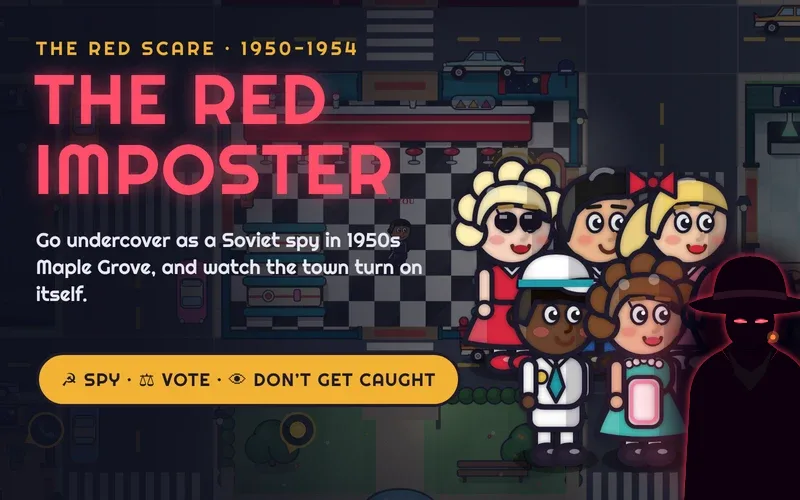
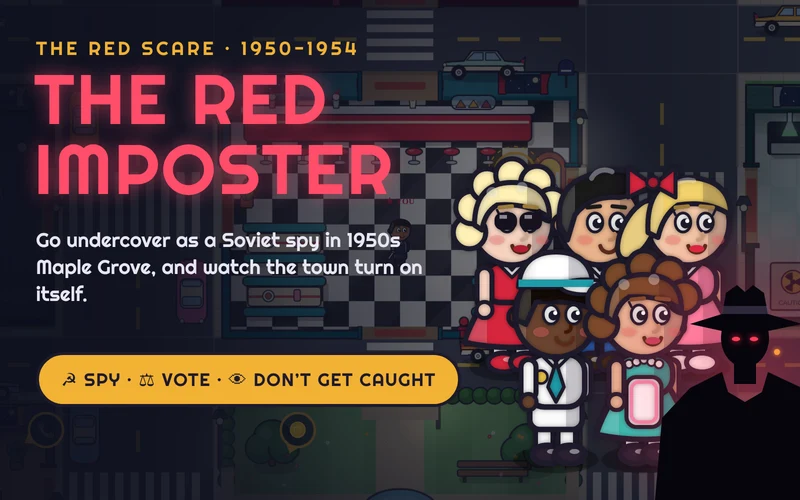
Red Imposter thumbnail: proportional fedora with angular pinched crown; refresh Cold War decks
Claude-Session: https://claude.ai/code/session_01Y5Ynk7yVBmukDNfpyqCbc5

Changed region(s): [[0.8125, 0.48, 1.0, 1.0]]

diff --git a/shop/index.html b/shop/index.html
@@ -68,7 +68,7 @@
 </article><article class="sunit" style="--c:#a8323e">
   <div class="thumb" style="background-image:url(/assets/thumbs/the-red-imposter.webp)"></div>
   <div class="body"><div class="unit">The Cold War</div><h3>The Cold War &amp; the Red Scare</h3><p>Containment, the arms race and McCarthyism: the key terms, people and places of the Cold War, with practice that ends in primary source analysis and Claim, Evidence, Reasoning writing.</p>
-  <div class="buys"><a class="buy" href="https://docs.google.com/presentation/d/1PVnd2bx5GIWatJR3ap7PeoeP_xFfSyAh01y8_gPcwAA/copy" rel="noopener"><span class="bl"><b>Lesson Deck · <s>$6.70</s> <span class="free">FREE</span></b><span class="tm">About 6–10 class periods</span></span><small>Get your free copy ▸</small></a><a class="buy" href="https://docs.google.com/presentation/d/1MWFVWP2ZlZkcclX3rWjnx_2pKsfFspTqf5vAoFPY8_A/copy" rel="noopener"><span class="bl"><b>Practice Deck · <s>$5.35</s> <span class="free">FREE</span></b><span class="tm">About 4–6 class periods</span></span><small>Get your free copy ▸</small></a></div>
+  <div class="buys"><a class="buy" href="https://docs.google.com/presentation/d/1L6ZdpDxtLTIwZ7SVdYkKK5TIIxnJ984BEgooWDRkdNs/copy" rel="noopener"><span class="bl"><b>Lesson Deck · <s>$6.70</s> <span class="free">FREE</span></b><span class="tm">About 6–10 class periods</span></span><small>Get your free copy ▸</small></a><a class="buy" href="https://docs.google.com/presentation/d/1jXEjcK9DIlzI1bKXRYvpLeMQg4owhMFi3MRVzWSIu5A/copy" rel="noopener"><span class="bl"><b>Practice Deck · <s>$5.35</s> <span class="free">FREE</span></b><span class="tm">About 4–6 class periods</span></span><small>Get your free copy ▸</small></a></div>
   <a class="tiny" href="/games/the-red-imposter/">Play the matching game ▸</a></div>
 </article></div>
   <div class="note"><p>Free decks open as your own copy in Google Slides, ready to assign. Class-period estimates assume 50-minute classes, moderate use of each deck, and teachers mixing in their own material.</p></div>
